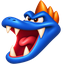
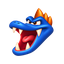
Restore Snide reward presentation and armed tags; refine shout and balloon art

diff --git a/src/krusha_progress_snide.c b/src/krusha_progress_snide.c
@@ -5,8 +5,35 @@
 extern void vanillaSnideBoard(void);
 extern Gfx* vanillaSnideDraw(Gfx*, void*);
 extern int krushaPauseFlagRange(int,int,int,int);
+extern void vanillaCharacterScript(void*,s32);
+
+void krushaSnideAnimation(void* actor, s32 script) {
+    /* Both queued GB actions and cutscene-driven pickups start these native
+     * Chunky/Krusha GB scripts. Substitute only Snide's player presentation,
+     * at real script initialization, never while SetAction merely queues it. */
+    if (CurrentMap==15 && krushaEnabled() && DetectAdventure() &&
+        Character==5 && actor==(void*)Player && (script==0x1D2 || script==0x1D0))
+        script=script==0x1D2 ? 0x145 : 0x144;
+    vanillaCharacterScript(actor,script);
+}
 
 static unsigned int activeFile(void) { return *(volatile u8*)0x807467C8; }
+
+int krushaSnideDisplayRewardReady(void) {
+    /* The setup prop already sits near the doorway before its presentation.
+     * Wait for the native hand-in phase, and require this visit to have held
+     * blueprints. A repeat/no-blueprint visit must not collect the idle prop. */
+    u32* actors=(u32*)0x807FB930;
+    int count=*(u16*)0x807FBB34;
+    if (count>64) count=64;
+    for (int i=0;i<count;i++) {
+        u8* actor=(u8*)actors[i*2];
+        if (!actor || *(u32*)(actor+0x58)!=184) continue;
+        u8* data=*(u8**)(actor+0x180);
+        return data && data[0]==4 && data[0x1A]>0;
+    }
+    return 0;
+}
 static int returned(void) {
     int count = 0;
     for (int level = 0; level < 8; level++)
@@ -98,14 +125,4 @@ Gfx* krushaSnideDraw(Gfx* dl, void* actor) {
     codeImmediate(0x800259E8, enabled ? 0x1800 : 0x1400);
     codeImmediate(0x80025430, enabled ? 7200 : 0xA3);
     return vanillaSnideDraw(dl,actor);
-}
-
-int krushaSnideHandoverEvent(s16 event) {
-    int (*native)(s16) = (void*)0x806F70A8;
-    int ready = native(event);
-    /* Krusha has no native blueprint-handover animation event. This callsite
-     * runs only in Snide's handover stage: credit genuinely held flags there.
-     * The original once-only returned flags/save path still prevent repeats. */
-    if (!ready && Character == 5 && event == 4 && krushaEnabled()) return 1;
-    return ready;
 }

diff --git a/src/krusha.c b/src/krusha.c
@@ -23,6 +23,8 @@ extern void krushaRoarTick(void);
 extern u8 krushaRoarStart(void);
 extern void krushaHolsterModel(void* actor);
 extern void krushaDrawGunModel(void* actor);
+extern int krushaSnideDisplayRewardReady(void);
+extern void krushaSnideAnimation(void*,s32);
 extern s32 vanillaBuildActorBones(void* actor);
 extern void vanillaDialogueLine(void* owner, u8* text, u16 length);
 
@@ -161,6 +163,14 @@ s32 krushaModelPickupAllowed(s16 object_id, u8 player, u16 type) {
      * tied to an original Kong's progression remains excluded. */
     if (enabled && player == 0 && Character == 5 && DetectAdventure()) {
         switch (type) {
+            case 0x74: /* Snide's animated display banana, setup ID4 only. */
+                if (CurrentMap != 15 || !krushaSnideDisplayRewardReady()) return 0;
+                for (s32 i=0;i<ObjectModel2Count_Dupe;i++) {
+                    ModelTwoData* object=&((ModelTwoData*)ObjectModel2Pointer)[i];
+                    if (object->runtime_id==object_id && object->object_id==4)
+                        return vanillaModelPickupAllowed(object_id,player,type);
+                }
+                return 0;
             case 0x11:  /* homing crate -> regular bazooka ammo */
                 if (MovesBase[5].weapon_bitfield&2) break;
                 return vanillaModelPickupAllowed(object_id, player, 0x8F);
@@ -310,6 +320,7 @@ void krushaAdventure(void) {
     static void* last_model = 0;
     if (!installed) {
         hook(0x80614A64, krushaBuildActorBones);
+        hook(0x80614EBC, krushaSnideAnimation);
         hook(0x806EB0C0, krushaSetAction);
         hook(0x806F6644, krushaModelPickupAllowed);
         hook(0x806F544C, krushaAmmoCollectible);

diff --git a/build/shout_icon.py b/build/shout_icon.py
@@ -3,7 +3,18 @@ from pathlib import Path
 from PIL import Image
 from barrel_assets import encode_face
 
+def prepared_image():
+    path=Path(__file__).resolve().parent.parent/'assets/krusha/hud/krusha-shout-source.png'
+    with Image.open(path) as source:
+        face=source.convert('RGBA').resize((48,48),Image.Resampling.LANCZOS)
+    # Integer inset in the existing native geometry. Keep the counter anchor,
+    # two-tile split and renderer scale; no new fractional draw-time scaling.
+    result=Image.new('RGBA',(64,64),(0,0,0,0))
+    result.paste(face,(8,8))
+    return result
+
 def payloads():
     path=Path(__file__).resolve().parent.parent/'assets/krusha/hud/krusha-shout-64.png'
     with Image.open(path) as image:
+        assert image.convert('RGBA').tobytes()==prepared_image().tobytes(),'Regenerate the prepared shouting icon'
         return encode_face(image)

diff --git a/build/progress_snide.py b/build/progress_snide.py
@@ -22,7 +22,8 @@ def patchSnide(fh,symbols):
         patch(a,0x0C000000|((target&0xFFFFFFF)>>2),
               0x0C000000|((int(symbols[name],16)&0xFFFFFFF)>>2))
     patch(0x80024F8C,0x24041400,0x24041800)  # 48 cells * 8 vertices * 16 bytes
-    call(0x800247F8,0x806F70A8,'krushasnidehandoverevent')
+    # Keep the native event4 check. Krusha now physically collects the display
+    # GB and runs a real victory script, which supplies its normal event.
     call(0x80024FA4,0x80731AA8,'krushasnideboardcomplete')
     call(0x80024CF0,0x80731AA8,'krushasnidechoicecount')
     calls={0x807319D8:'krushapauseflagindex',0x80731A04:'krushapauseflagrange',

diff --git a/build/m2_pickups.py b/build/m2_pickups.py
@@ -119,6 +119,11 @@ def payloads(rom):
         native=read_file(rom,25,index);out=bytearray()
         for (value,) in struct.iter_unpack('>H',native):
             r,g,b=(value>>11)&31,(value>>6)&31,(value>>1)&31
+            # Native Chunky balloon: green body and gold banana emblem.
+            # Keep its yellow/orange texels verbatim; silver only the body.
+            if r >= g and g > b:
+                out+=struct.pack('>H',value)
+                continue
             light=min(31,round((.2126*r+.7152*g+.0722*b)*gray/(255*.9278)))
             out+=struct.pack('>H',light<<11|light<<6|light<<1|value&1)
         result.append(bytes(out))

diff --git a/src/taganywhere.c b/src/taganywhere.c
@@ -539,7 +539,7 @@ void tagAnywhere(void) {
 
 	if (Player) {
 		// If the destination kong hasn't bought their gun, or if the current kong does not have their gun out
-		if (_dest_character == 5 || ((MovesBase[_dest_character].weapon_bitfield & 1) == 0) || (Player->was_gun_out == 0)) {
+		if (((MovesBase[_dest_character].weapon_bitfield & 1) == 0) || (Player->was_gun_out == 0)) {
 			Player->hand_state = 1;
 			Player->was_gun_out = 0;
 			// Without this, tags to and from Diddy mess up

diff --git a/build/staticcode.py b/build/staticcode.py
@@ -64,6 +64,9 @@ def patchStaticCode(filename):
 		fh.write(bytes(4))
 		from m3_progress import patch_pickups
 		patch_pickups(fh,symbols)
+		# Runtime script adapter's displaced native instructions (see trampoline).
+		fh.seek(0x80614EBC - 0x805FB300)
+		assert fh.read(8) == bytes.fromhex('8c82000444802000'), 'Animation script prologue differs from USA'
 
 		# RDRAM Address - 0x5FB300 = ROM address
 		# Only the fairy-camera entry check: allow character 5, still exclude
